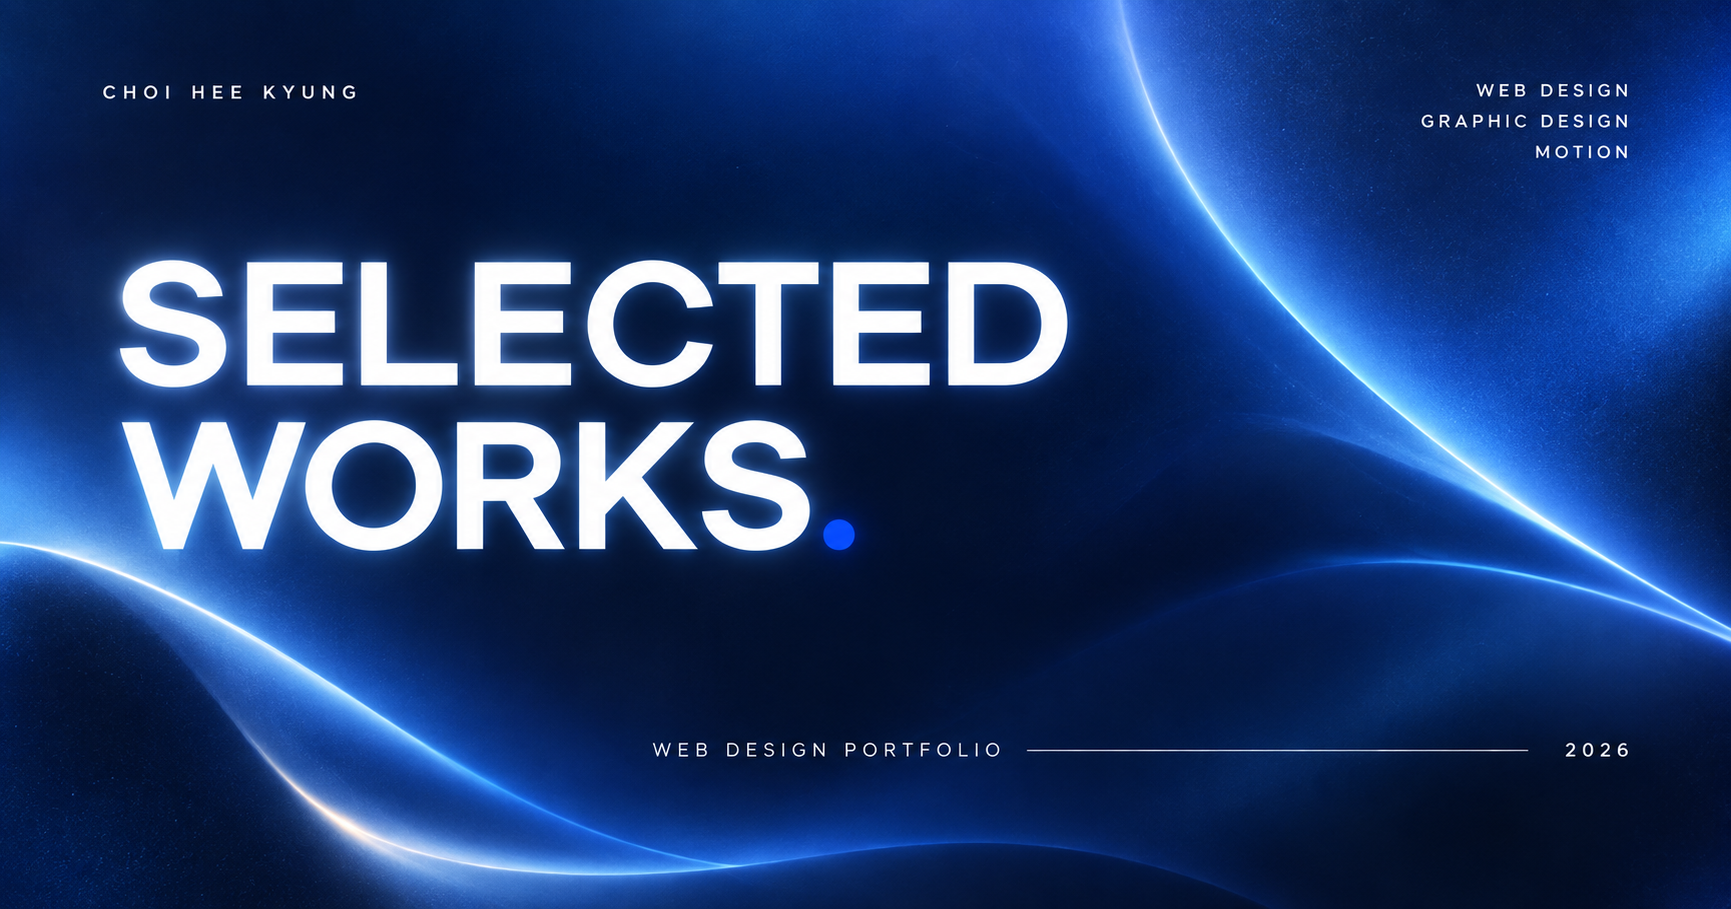
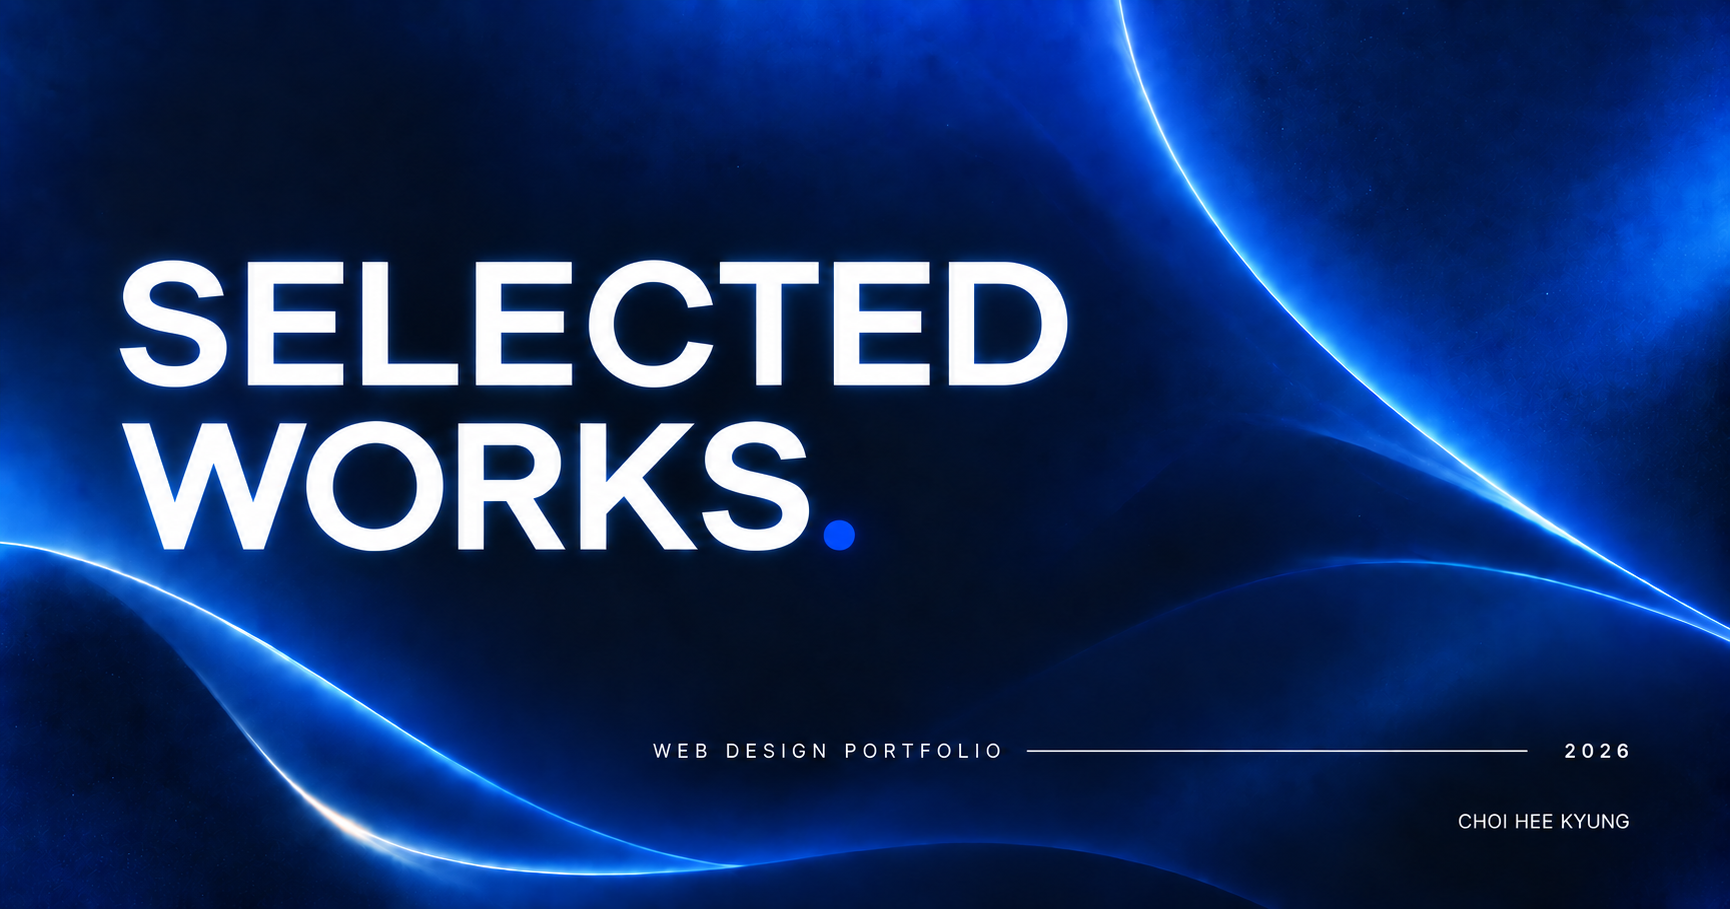
OG이미지 수정

diff --git a/index.html b/index.html
@@ -11,7 +11,7 @@
     />
     <meta
       property="og:image"
-      content="https://choi4733.github.io/portfolio-gallery/assets/img/og-image.png"
+      content="https://choi4733.github.io/portfolio-gallery/assets/img/og-image1.png?v=2"
     />
     <meta
       property="og:url"
